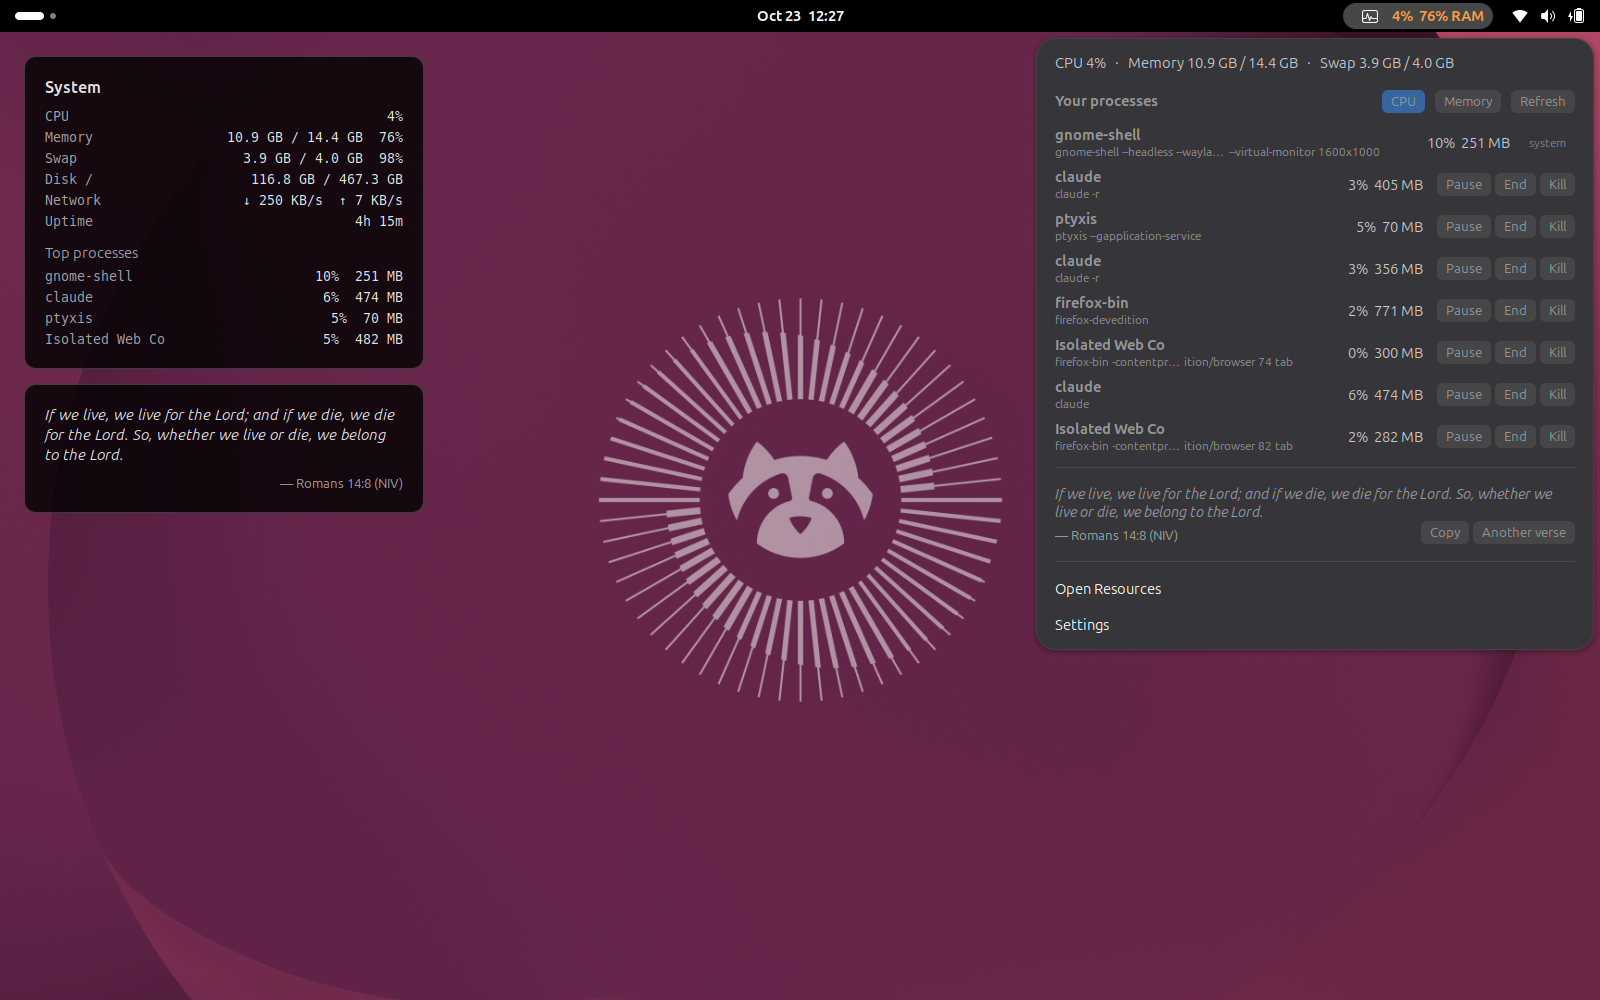
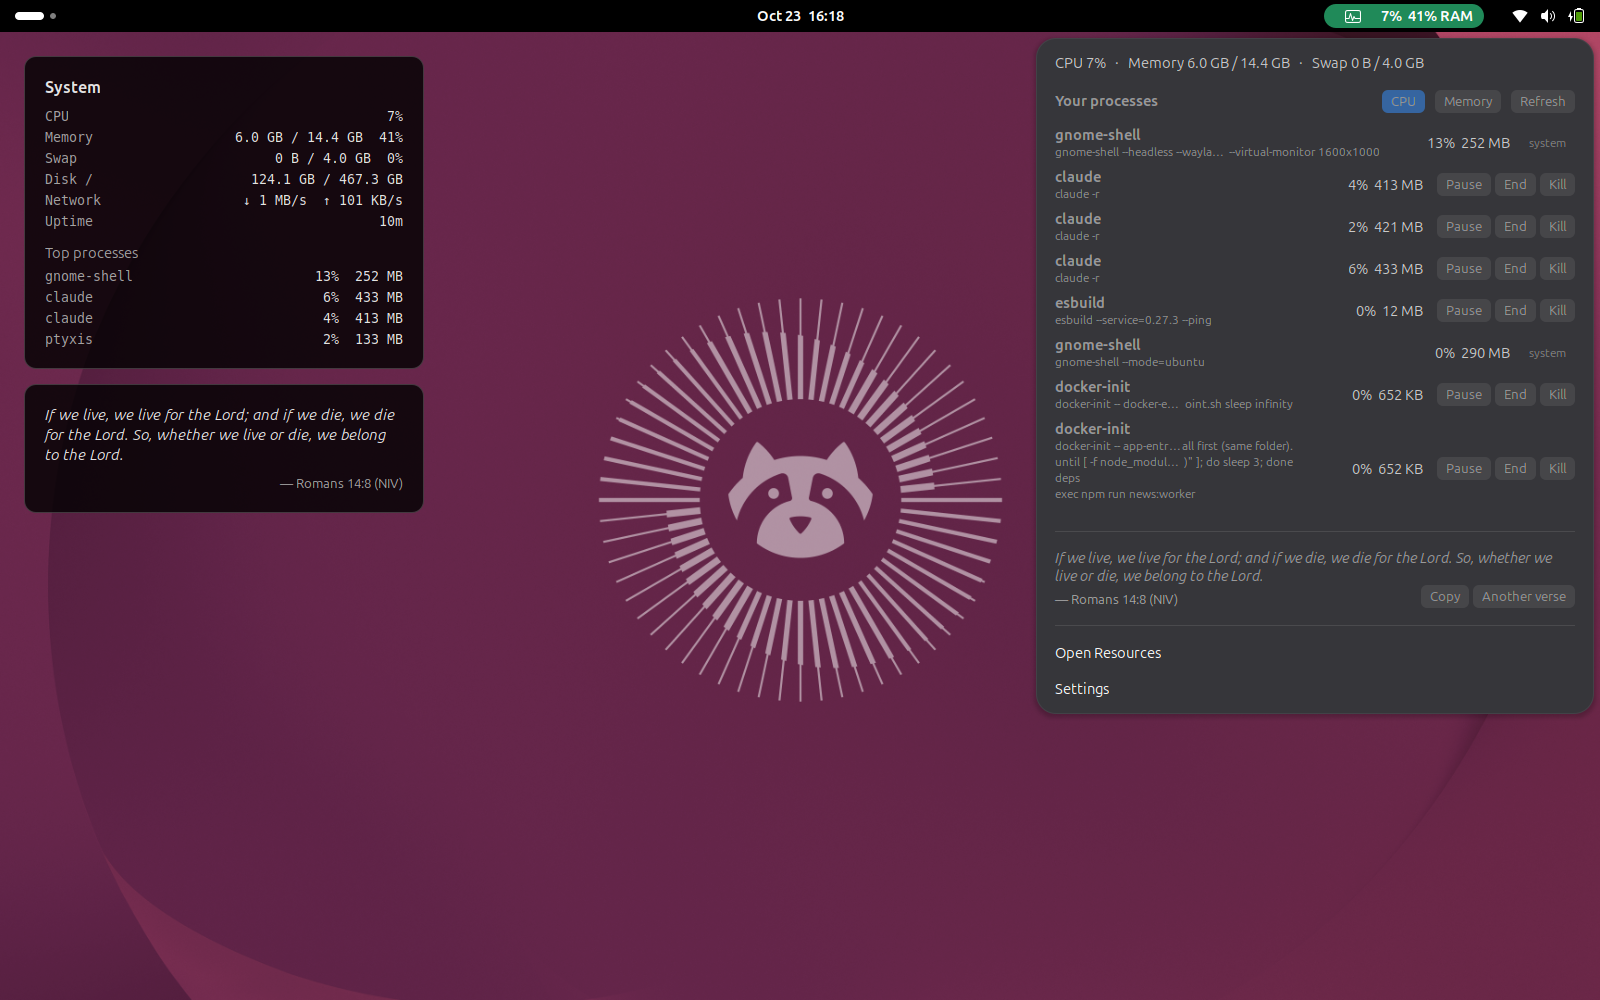
Top bar status pill: normal, warning and danger colors
The indicator always sits on a colored pill: green, amber at the warning
level (75%), red at danger (90%). Memory and swap count by default, CPU
(averaged over ~10s) optionally; the menu says what tripped it. Levels,
metrics and colors are settings, with a reset. Also keeps the last CPU
reading when sampled twice in one tick.

diff --git a/gnome/vigil@kigathi-chege.github.io/extension.js b/gnome/vigil@kigathi-chege.github.io/extension.js
@@ -20,6 +20,23 @@ import {VerseProvider} from './verse.js';
 
 const MONITOR_APPS = ['net.nokyan.Resources.desktop', 'org.gnome.SystemMonitor.desktop', 'gnome-system-monitor.desktop'];
 
+function parseColor(css) {
+    const hex = css.trim().match(/^#([0-9a-f]{6})$/i);
+    if (hex)
+        return [0, 2, 4].map(i => parseInt(hex[1].slice(i, i + 2), 16));
+    const rgb = css.match(/rgba?\(([^)]+)\)/);
+    return rgb ? rgb[1].split(',').slice(0, 3).map(Number) : [0, 0, 0];
+}
+
+// Black or white text, whichever reads better on the chosen background.
+function readableTextOn(css) {
+    const [r, g, b] = parseColor(css).map(c => {
+        c /= 255;
+        return c <= 0.03928 ? c / 12.92 : ((c + 0.055) / 1.055) ** 2.4;
+    });
+    return 0.2126 * r + 0.7152 * g + 0.0722 * b > 0.35 ? '#1a1a1a' : '#ffffff';
+}
+
 function button(text, style = 'wf-button') {
     return new St.Button({label: text, style_class: style, can_focus: true, y_align: Clutter.ActorAlign.CENTER});
 }
@@ -129,6 +146,7 @@ const Indicator = GObject.registerClass(
 class Indicator extends PanelMenu.Button {
     _init(extension) {
         super._init(0.5, 'Vigil');
+        this.add_style_class_name('wf-indicator');
         this._extension = extension;
         this.settings = extension.getSettings();
         this.processes = new ProcessSampler();
@@ -136,7 +154,9 @@ class Indicator extends PanelMenu.Button {
         this._rows = [];
         this._sources = new Set();
 
-        const box = new St.BoxLayout({style_class: 'panel-status-menu-box'});
+        const box = new St.BoxLayout({style_class: 'panel-status-menu-box wf-pill', y_align: Clutter.ActorAlign.CENTER});
+        this._pill = box;
+        this._cpuHistory = [];
         box.add_child(new St.Icon({icon_name: 'utilities-system-monitor-symbolic', style_class: 'system-status-icon'}));
         this._label = new St.Label({text: '…', y_align: Clutter.ActorAlign.CENTER, style_class: 'wf-panel-label'});
         box.add_child(this._label);
@@ -255,18 +275,14 @@ class Indicator extends PanelMenu.Button {
         this._label.text = parts.join('  ');
         this._label.visible = parts.length > 0;
 
-        // Orange when memory or swap is nearly full: the moment to open the menu and find the culprit.
-        const limit = this.settings.get_uint('memory-warning');
-        if (s.memPercent >= limit || (s.swapTotal && s.swapPercent >= limit))
-            this._label.add_style_class_name('wf-warn');
-        else
-            this._label.remove_style_class_name('wf-warn');
+        const status = this._status(s);
+        this._paintPill(status.level);
 
         this._summary.text = [
             `CPU ${s.cpu === null ? '…' : `${s.cpu.toFixed(0)}%`}`,
             `Memory ${formatBytes(s.memUsed)} / ${formatBytes(s.memTotal)}`,
             s.swapTotal ? `Swap ${formatBytes(s.swapUsed)} / ${formatBytes(s.swapTotal)}` : 'Swap off',
-        ].join('   ·   ');
+        ].join('   ·   ') + (status.reasons.length ? `\n${status.level === 'danger' ? 'Danger' : 'Warning'}: ${status.reasons.join(', ')}` : '');
 
         // Processes are scanned only while someone is looking at them.
         const deskCount = this._desktop && this.settings.get_boolean('desktop-show-system')
@@ -282,6 +298,42 @@ class Indicator extends PanelMenu.Button {
         this._desktop?.updateSystem(s, deskCount && list ? this.processes.top(list, this.settings.get_string('process-sort'), deskCount) : []);
 
         this.verse.ensureToday();
+    }
+
+    // Worst of the metrics that count (settings), against the warning and danger levels.
+    // CPU is averaged over the last ~10 seconds so a single busy moment doesn't flash the bar.
+    _status(s) {
+        if (s.cpu !== null)
+            this._cpuHistory.push(s.cpu);
+        const keep = Math.max(1, Math.round(10 / this.settings.get_uint('refresh-interval')));
+        this._cpuHistory.splice(0, Math.max(0, this._cpuHistory.length - keep));
+        const cpuAvg = this._cpuHistory.length ? this._cpuHistory.reduce((a, b) => a + b, 0) / this._cpuHistory.length : 0;
+
+        const metrics = [];
+        if (this.settings.get_boolean('alert-memory'))
+            metrics.push(['memory', s.memPercent]);
+        if (this.settings.get_boolean('alert-swap') && s.swapTotal)
+            metrics.push(['swap', s.swapPercent]);
+        if (this.settings.get_boolean('alert-cpu'))
+            metrics.push(['CPU', cpuAvg]);
+
+        const warning = this.settings.get_uint('warning-level');
+        const danger = this.settings.get_uint('danger-level');
+        const over = limit => metrics.filter(([, v]) => v >= limit).map(([n, v]) => `${n} ${v.toFixed(0)}%`);
+        const dangerous = over(danger);
+        if (dangerous.length)
+            return {level: 'danger', reasons: dangerous};
+        const warn = over(warning);
+        return warn.length ? {level: 'warning', reasons: warn} : {level: 'normal', reasons: []};
+    }
+
+    _paintPill(level) {
+        const background = this.settings.get_string(`color-${level}`);
+        const style = `background-color: ${background}; color: ${readableTextOn(background)};`;
+        if (this._pill.style !== style)
+            this._pill.style = style;
+        for (const l of ['normal', 'warning', 'danger'])
+            this._pill[l === level ? 'add_style_class_name' : 'remove_style_class_name'](`wf-${l}`);
     }
 
     _showVerse() {

diff --git a/gnome/vigil@kigathi-chege.github.io/prefs.js b/gnome/vigil@kigathi-chege.github.io/prefs.js
@@ -1,4 +1,5 @@
 import Adw from 'gi://Adw';
+import Gdk from 'gi://Gdk';
 import Gio from 'gi://Gio';
 import Gtk from 'gi://Gtk';
 
@@ -29,6 +30,27 @@ function comboRow(settings, key, title, values, labels) {
     return row;
 }
 
+// A color picker (with transparency) for a key holding a CSS color string.
+function colorRow(settings, key, title) {
+    const row = new Adw.ActionRow({title});
+    const button = new Gtk.ColorDialogButton({dialog: new Gtk.ColorDialog({with_alpha: true}), valign: Gtk.Align.CENTER});
+    const load = () => {
+        const rgba = new Gdk.RGBA();
+        if (rgba.parse(settings.get_string(key)))
+            button.rgba = rgba;
+    };
+    load();
+    button.connect('notify::rgba', () => {
+        const css = button.rgba.to_string();
+        if (css !== settings.get_string(key))
+            settings.set_string(key, css);
+    });
+    settings.connect(`changed::${key}`, load);
+    row.add_suffix(button);
+    row.activatable_widget = button;
+    return row;
+}
+
 function group(title, rows, description = '') {
     const g = new Adw.PreferencesGroup({title, description});
     for (const r of rows)
@@ -46,9 +68,22 @@ export default class VigilPreferences extends ExtensionPreferences {
             switchRow(s, 'panel-show-cpu', 'CPU usage'),
             switchRow(s, 'panel-show-memory', 'Memory usage'),
             switchRow(s, 'panel-show-swap', 'Swap usage'),
-            spinRow(s, 'memory-warning', 'Warning level (%)', 50, 100, 'The top bar turns orange when memory or swap passes this'),
             spinRow(s, 'refresh-interval', 'Update every (seconds)', 1, 30),
         ]));
+        const reset = new Gtk.Button({label: 'Reset colors', valign: Gtk.Align.CENTER, css_classes: ['flat']});
+        reset.connect('clicked', () => ['color-normal', 'color-warning', 'color-danger'].forEach(k => s.reset(k)));
+        const status = group('Status colors', [
+            spinRow(s, 'warning-level', 'Warning at (%)', 10, 100),
+            spinRow(s, 'danger-level', 'Danger at (%)', 10, 100),
+            switchRow(s, 'alert-memory', 'Memory counts'),
+            switchRow(s, 'alert-swap', 'Swap counts'),
+            switchRow(s, 'alert-cpu', 'CPU counts', 'Averaged over about 10 seconds, so short bursts don’t trigger it'),
+            colorRow(s, 'color-normal', 'Normal'),
+            colorRow(s, 'color-warning', 'Warning'),
+            colorRow(s, 'color-danger', 'Danger'),
+        ], 'The top bar always has a background: the worst of the metrics that count picks the color.');
+        status.header_suffix = reset;
+        general.add(status);
         general.add(group('Process menu', [
             spinRow(s, 'menu-process-count', 'Processes listed', 3, 20),
             comboRow(s, 'process-sort', 'Sort by', ['cpu', 'memory'], ['CPU', 'Memory']),

diff --git a/gnome/tests/testhook@local/extension.js b/gnome/tests/testhook@local/extension.js
@@ -7,13 +7,19 @@ Gio._promisify(Shell.Screenshot.prototype, 'screenshot');
 const OUT = GLib.getenv('WF_TEST_OUT');
 const UUID = 'vigil@kigathi-chege.github.io';
 const wait = ms => new Promise(r => GLib.timeout_add(GLib.PRIORITY_DEFAULT, ms, () => { r(); return GLib.SOURCE_REMOVE; }));
+async function shotArea(name, x, y, w, h) {
+    const stream = Gio.File.new_for_path(`${OUT}/${name}.png`).replace(null, false, Gio.FileCreateFlags.NONE, null);
+    await new Shell.Screenshot().screenshot_area(x, y, w, h, stream);
+    stream.close(null);
+}
 async function shot(name) {
     const stream = Gio.File.new_for_path(`${OUT}/${name}.png`).replace(null, false, Gio.FileCreateFlags.NONE, null);
     await new Shell.Screenshot().screenshot(false, stream);
     stream.close(null);
 }
 export default class T extends Extension {
-    enable() { this.run().catch(e => console.log('TESTHOOK FAIL ' + e + '\n' + e.stack)); }
+    // GNOME re-enables later extensions after a disable, so guard against running twice.
+    enable() { if (global._vigilTestRan) return; global._vigilTestRan = true; this.run().catch(e => console.log('TESTHOOK FAIL ' + e + '\n' + e.stack)); }
     async run() {
         console.log('TESTHOOK start');
         const r = {};
@@ -37,6 +43,27 @@ export default class T extends Extension {
         Main.extensionManager.enableExtension(UUID);
         await wait(1500);
         r.afterEnable = Main.extensionManager.lookup(UUID).state + ' err=' + Main.extensionManager.lookup(UUID).error;
+        // Each status color, forced through the thresholds, cropped to the top-right corner.
+        const settings = Main.extensionManager.lookup(UUID).stateObj.getSettings();
+        const panel = Main.extensionManager.lookup(UUID) && Main.panel.statusArea[UUID];
+        const box = panel.get_transformed_extents();
+        const crop = n => shotArea(n, Math.max(0, box.origin.x - 20), 0, box.size.width + 140, Main.panel.height);
+        for (const [name, warn, danger] of [['normal', 100, 100], ['warning', 10, 100], ['danger', 10, 10]]) {
+            settings.set_uint('warning-level', warn);
+            settings.set_uint('danger-level', danger);
+            await wait(2500);
+            r[name] = Main.panel.statusArea[UUID]._pill.style;
+            await crop(`pill-${name}`);
+        }
+        Main.panel.statusArea[UUID].menu.open();
+        await wait(1200);
+        await crop('pill-open');
+        Main.panel.statusArea[UUID].menu.close();
+        settings.reset('warning-level');
+        settings.reset('danger-level');
+        Main.extensionManager.lookup(UUID).stateObj.openPreferences();
+        await wait(4000);
+        await shot('prefs');
         GLib.file_set_contents(`${OUT}/result.json`, JSON.stringify(r, null, 2));
         console.log('TESTHOOK done');
     }

diff --git a/gnome/vigil@kigathi-chege.github.io/stats.js b/gnome/vigil@kigathi-chege.github.io/stats.js
@@ -85,10 +85,13 @@ export class SystemSampler {
         const fields = (readText('/proc/stat') ?? '').split('\n')[0].trim().split(/\s+/).slice(1, 9).map(Number);
         const idle = fields[3] + fields[4];
         const total = fields.reduce((a, b) => a + b, 0);
-        let cpu = null;
-        if (this._cpu && total > this._cpu.total)
-            cpu = 100 * (1 - (idle - this._cpu.idle) / (total - this._cpu.total));
-        this._cpu = {idle, total};
+        // Sampled again within the same tick (e.g. a settings change): keep the last reading.
+        let cpu = this._lastCpu ?? null;
+        if (!this._cpu || total - this._cpu.total >= 10) {
+            if (this._cpu)
+                cpu = this._lastCpu = 100 * (1 - (idle - this._cpu.idle) / (total - this._cpu.total));
+            this._cpu = {idle, total};
+        }
 
         const mem = parseMeminfo();
         const memTotal = mem.MemTotal * 1024;

diff --git a/gnome/vigil@kigathi-chege.github.io/stylesheet.css b/gnome/vigil@kigathi-chege.github.io/stylesheet.css
@@ -1,6 +1,10 @@
 /* Top bar */
 .wf-panel-label { padding-left: 4px; font-feature-settings: "tnum"; }
-.wf-panel-label.wf-warn { color: #ff9f43; font-weight: bold; }
+.panel-button.wf-indicator, .panel-button.wf-indicator:hover, .panel-button.wf-indicator:active,
+.panel-button.wf-indicator:checked, .panel-button.wf-indicator:focus { background-color: transparent; box-shadow: none; }
+.wf-pill { border-radius: 99px; padding: 2px 10px; margin: 3px 0; spacing: 6px; border: 1px solid transparent; }
+.wf-indicator:hover .wf-pill, .wf-indicator:checked .wf-pill, .wf-indicator:focus .wf-pill { border-color: rgba(255, 255, 255, 0.7); }
+.wf-pill.wf-danger .wf-panel-label { font-weight: bold; }
 
 /* Menu */
 .wf-summary { font-feature-settings: "tnum"; color: #ccc; }

diff --git a/README.md b/README.md
@@ -9,7 +9,7 @@ Keep watch over your machine, with a daily Bible verse. System monitoring for th
 
 ![Desktop card and menu](docs/gnome-menu.png)
 
-- **Top bar:** CPU and memory (optionally swap). It turns orange when memory or swap passes the warning level (90% by default).
+- **Top bar:** CPU and memory (optionally swap) on a colored pill that is always there: **green** when all is well, **amber** at the warning level (75%), **red** at danger (90%). Memory and swap count by default, CPU (averaged over ~10 s) if you turn it on. The menu says what tripped it. Levels, metrics and all three colors are in Settings.
 - **Click it** for your top processes, sorted by CPU or memory. Each row shows what the process really is (`node … svelte-check`, not just `node`) and has **Pause / Resume / End / Kill**:
   - End asks politely (SIGTERM); Kill forces it (SIGKILL). Both need a second click unless you turn that off.
   - The list is taken when the menu opens and doesn't reorder under your pointer. A button only ever signals the exact process it was shown for, even if its PID has since been reused.
